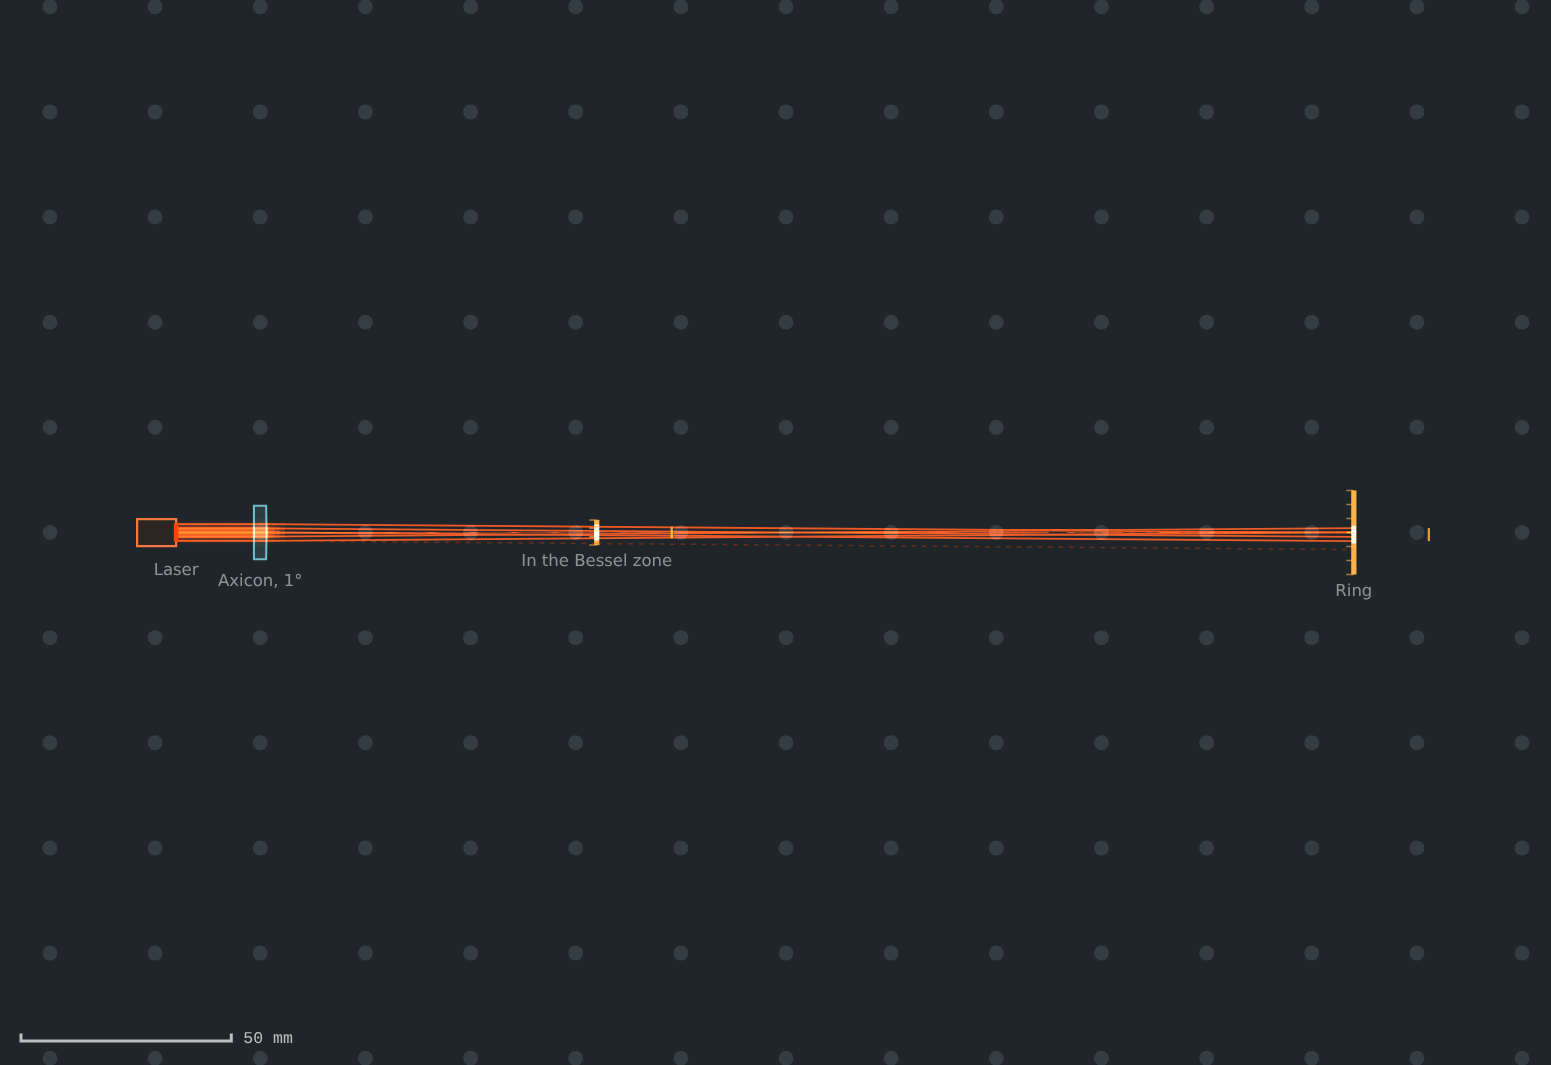
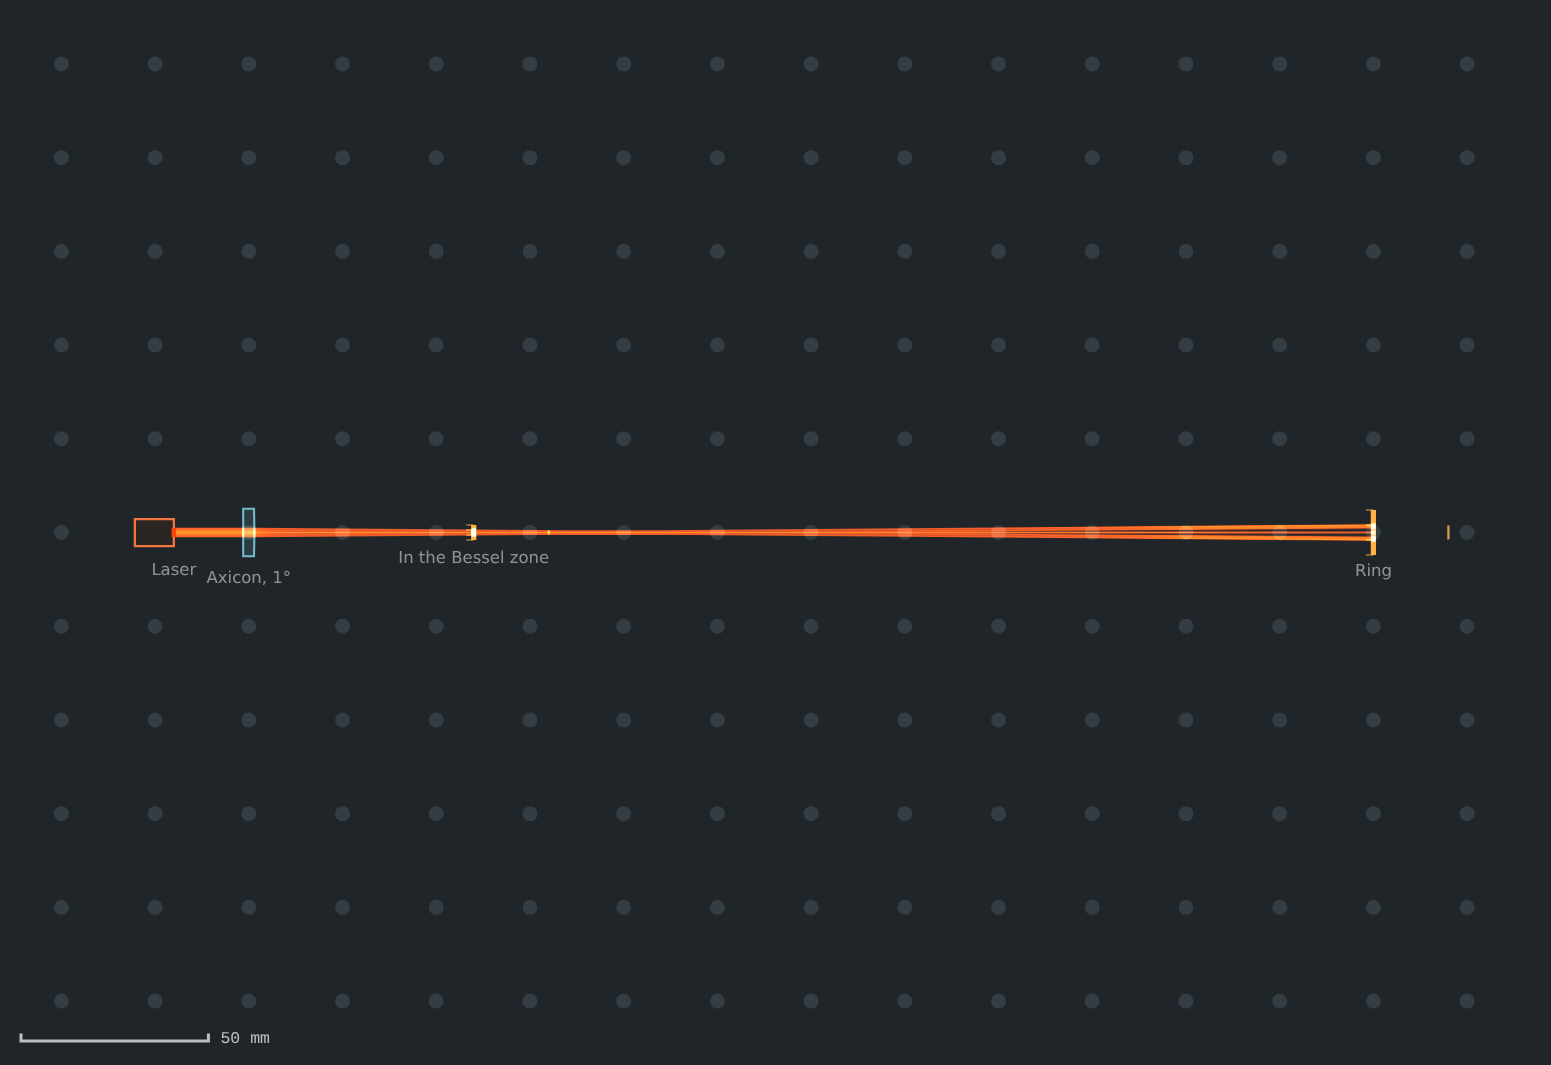
JEKray2D: a ray through an axicon's tip goes straight on
The cone's slope at r = 0 took the sign of +r, so the ray on the axis,
which the Gaussian beam and the diffracted field follow, was bent by the
full cone angle: the Bessel beam came out lopsided and off the axis.
On the tip the two sides now balance and the slope is zero.

The axicon example uses a 1 mm beam, so the Bessel zone (about 125 mm)
and the ring beyond it both fit on the bench, with notes giving the
numbers to expect. A test checks the tip ray.

Claude-Session: https://claude.ai/code/session_01MNxHTrvGB6kKFhVYTnWGGQ

diff --git a/jek/tools/jekray2d-tests.html b/jek/tools/jekray2d-tests.html
@@ -2885,6 +2885,17 @@ const TESTS = [
       return ok;
     },
   },
+  {
+    name: 'A ray through an axicon\u2019s tip goes straight on',
+    why: 'a 1\u00b0 fused silica axicon: the ray on its axis is not bent, and rays 1 mm either side cross the axis at equal and opposite angles',
+    want: 0, tol: 1e-9, unit: ' mm',
+    run: J => {
+      J.load(bench('ax', [src({ x: -20, width: 2, rays: 3, pol: 's', wavelength: 632.8 }),
+        { type: 'lens', name: 'Ax', x: 0, y: 0, angle: 0, diameter: 12.7, surfaces: [{ R: null }, { R: null, odd: [-Math.tan(Math.PI / 180)] }], gaps: [3], materials: [{ glass: 'UVFS' }] }]));
+      const ends = J.rayPaths().filter(r => r[0] > 1).map(r => r[r.length - 1]);
+      return Math.abs(ends.reduce((a, v) => a + v, 0)) + Math.abs(ends.sort((a, b) => Math.abs(a) - Math.abs(b))[0]);
+    },
+  },
   { group: 'Masks as ideal lenses' },
   {
     name: 'An ideal-lens mask hit off-centre focuses as one hit in the middle',

diff --git a/jek/tools/jekray2d.html b/jek/tools/jekray2d.html
@@ -2170,7 +2170,8 @@ function rawDsag(s, y) {
   let p = y2 * y;
   for (let j = 0; j < s.A.length; j++) { v += (4 + 2*j) * s.A[j] * p; p *= y2; }
   if (s.odd) {
-    const r = Math.abs(y), sg = y < 0 ? -1 : 1;
+    // a ray on the tip itself sees the two sides of the cone equally, so no slope: it goes straight
+    const r = Math.abs(y), sg = y < -1e-12 ? -1 : y > 1e-12 ? 1 : 0;
     let q = 1;
     for (let j = 0; j < s.odd.length; j++) { v += (j + 1) * s.odd[j] * q * sg; q *= r; }
   }
